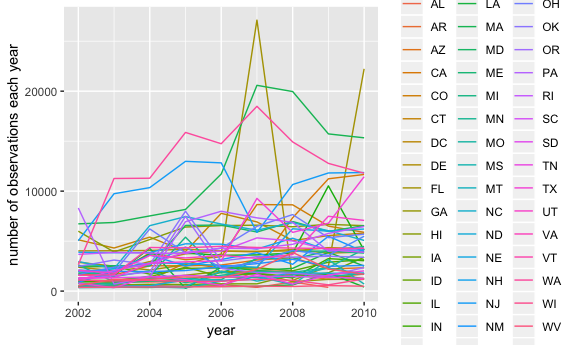
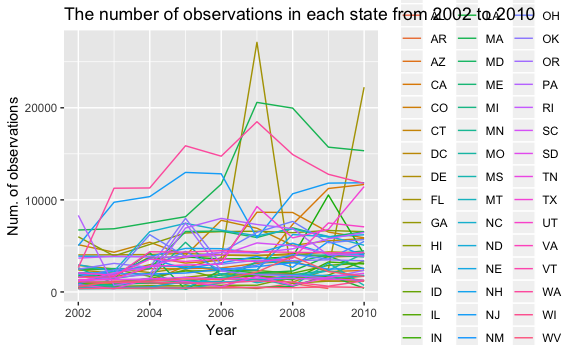
Problem 2 first draft

diff --git a/p8105_hw3_js5354.md b/p8105_hw3_js5354.md
@@ -60,7 +60,9 @@ brfss_smart2010 %>%
 # a line plot that shows the number of obs in each state from 2002 to 2010. 
 ggplot(spaghetti_df, aes(x = year, y = n_obs, color = locationabbr))+
   geom_line()+
-  labs(y = "number of observations each year")
+  labs(x = "Year", 
+       y = "Num. of observations",
+       title = "The number of observations in each state from 2002 to 2010")
 ```
 
 <img src="p8105_hw3_js5354_files/figure-markdown_github/spaghetti plot-1.png" width="90%" /> This line plot demonstrates the number of observations each year in each state. The time frame ranges from 2002 to 2010. One line represents the trend in he number of observations in one state. Different states are colored differently.
@@ -92,7 +94,9 @@ brfss_smart2010 %>%
 
 ggplot(brfss_state_avg, aes(x = year, y = avg_prop, color = locationabbr))+
   geom_line()+
-  labs(y = "average proportion of each response in each state over time") +
+  labs(x = "Year",
+       y = "average proportion of each response",
+       title = "The state-level average proportion of each response from 2002 to 2010") +
   facet_grid(. ~ response)
 ```
 
@@ -100,7 +104,116 @@ ggplot(brfss_state_avg, aes(x = year, y = avg_prop, color = locationabbr))+
 
 <img src="p8105_hw3_js5354_files/figure-markdown_github/state level average of each response-1.png" width="90%" />
 
-*commenting* In general, the average proportion of responding either "excellent" or "very good" or "good" is greater than those of responding "fair" or "poor".
+*commenting*
+In general, the average proportion of responding either "excellent" or "very good" or "good" is greater than those of responding "fair" or "poor".
 
 Problem 2
 =========
+
+``` r
+data(instacart, package = "p8105.datasets")
+```
+
+This `instacart` dataset contains 1384617 observations and 15 variables, storing information related to orders placed on the instacart app. The dataset not only includes numeric variables, such as order ID and user ID, but also character variables like descriptive product names and department names, and a logical variable `reordered` stating whether the order was placed first time or not.
+
+Taking `order_id` =1 placed by `user_id` = 112108 as an example, this specific order was consist of 8 items with their `product_id`, `product_name` and the order in which each item was added to the cart (`add_to_cart_order`) stated. If `reordered` =1, it means that the particular item was not the first time that customer purchased. `order_number` refers to the sequence number of this order that the user placed. In this order, the user purchased four of everything. `order_dow` = 4 and `order_hour_of_day` =12 means this order was placed on a Thursday on 12pm. It had been 30 days (`days_since_prior_order` = 30) since this user placed his/her last order on instacart. Information related to the location of each product in the supermarket is specified in `aisle_id`, `aisle`, `department_id` and `department`.
+
+``` r
+# The number of distinct aisles
+distinct(instacart, aisle)
+```
+
+    ## # A tibble: 134 x 1
+    ##    aisle                        
+    ##    <chr>                        
+    ##  1 yogurt                       
+    ##  2 other creams cheeses         
+    ##  3 fresh vegetables             
+    ##  4 canned meat seafood          
+    ##  5 fresh fruits                 
+    ##  6 packaged cheese              
+    ##  7 specialty cheeses            
+    ##  8 water seltzer sparkling water
+    ##  9 cream                        
+    ## 10 packaged vegetables fruits   
+    ## # ... with 124 more rows
+
+``` r
+# Frequency of each aisle
+instacart %>% 
+  group_by(aisle) %>% 
+  summarize(n = n()) %>% 
+  arrange(desc(n))
+```
+
+    ## # A tibble: 134 x 2
+    ##    aisle                              n
+    ##    <chr>                          <int>
+    ##  1 fresh vegetables              150609
+    ##  2 fresh fruits                  150473
+    ##  3 packaged vegetables fruits     78493
+    ##  4 yogurt                         55240
+    ##  5 packaged cheese                41699
+    ##  6 water seltzer sparkling water  36617
+    ##  7 milk                           32644
+    ##  8 chips pretzels                 31269
+    ##  9 soy lactosefree                26240
+    ## 10 bread                          23635
+    ## # ... with 124 more rows
+
+-   Fresh fruits and vegetables are the two aisles from which most items are ordered. The frequency of fresh fruits/vegetables appeared in this dataset almost double the frequency of the third most popular aisle, packaged vegetables fruits.
+
+``` r
+# create a relevant dataframe for further plotting
+aisle_freq = 
+instacart %>% 
+  group_by(aisle) %>% 
+  summarize(n = n()) %>% 
+  arrange(desc(n))
+
+# create a function to plot aisles with item number within specific interval.
+plot_aisle = function (lower_lim, upper_lim){
+
+  ggplot(filter(aisle_freq, n >= lower_lim & n < upper_lim), aes(x = reorder(aisle, -n), y = n)) +
+  geom_bar(stat = "identity")  +
+  geom_text(aes(label = n), size =3, position = position_dodge(width = 0.9), vjust = -0.25) +
+  scale_y_continuous(name = "Number of items ordered") +
+  scale_x_discrete(name = "Asile" ) +
+  coord_cartesian(ylim = c(lower_lim*0.95, upper_lim*1.05)) +
+  theme(axis.text.x = element_text(angle = 45, hjust = 1))
+}
+
+aisle_p1 = plot_aisle (0, 1000)
+aisle_p2 = plot_aisle (1000, 2000)
+aisle_p3 = plot_aisle (2000, 6000)
+aisle_p4 = plot_aisle (6000, 13000)
+aisle_p5 = plot_aisle (13000, 151000)
+
+aisle_p1  
+```
+
+<img src="p8105_hw3_js5354_files/figure-markdown_github/plotting n. of items in each aisle-1.png" width="90%" />
+
+``` r
+aisle_p2  
+```
+
+<img src="p8105_hw3_js5354_files/figure-markdown_github/plotting n. of items in each aisle-2.png" width="90%" />
+
+``` r
+aisle_p3  
+```
+
+<img src="p8105_hw3_js5354_files/figure-markdown_github/plotting n. of items in each aisle-3.png" width="90%" />
+
+``` r
+aisle_p4 
+```
+
+<img src="p8105_hw3_js5354_files/figure-markdown_github/plotting n. of items in each aisle-4.png" width="90%" />
+
+``` r
+aisle_p5 
+```
+
+<img src="p8105_hw3_js5354_files/figure-markdown_github/plotting n. of items in each aisle-5.png" width="90%" />
